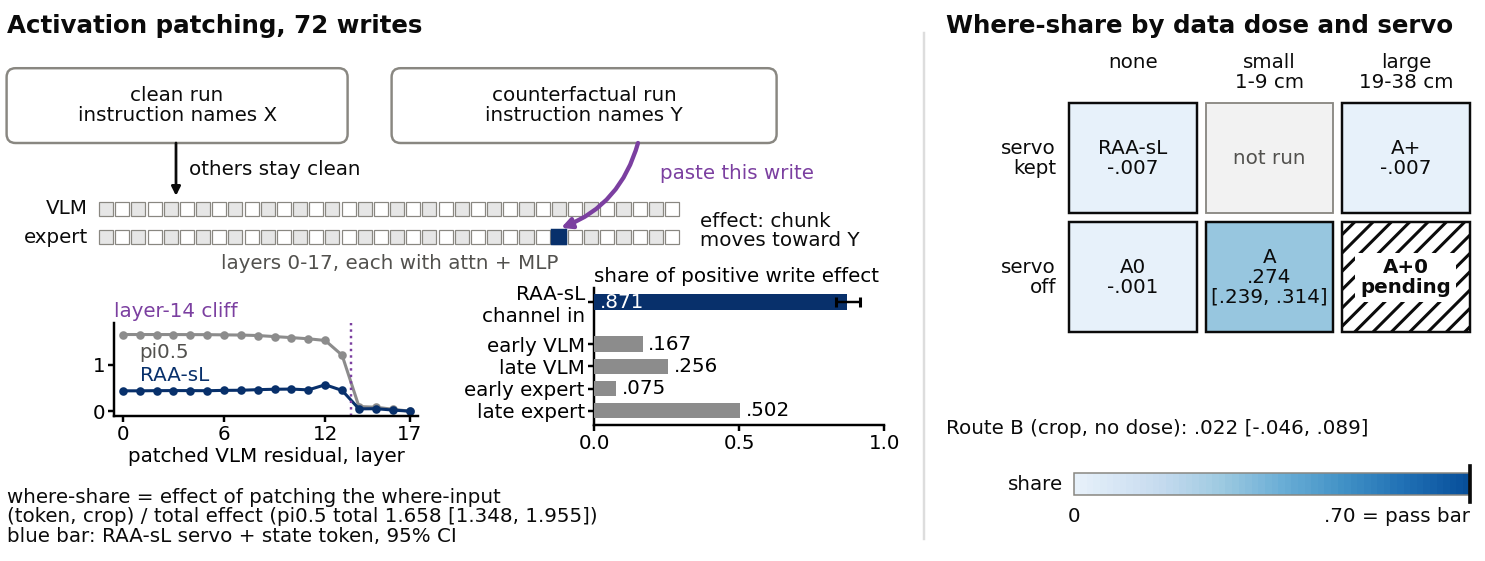
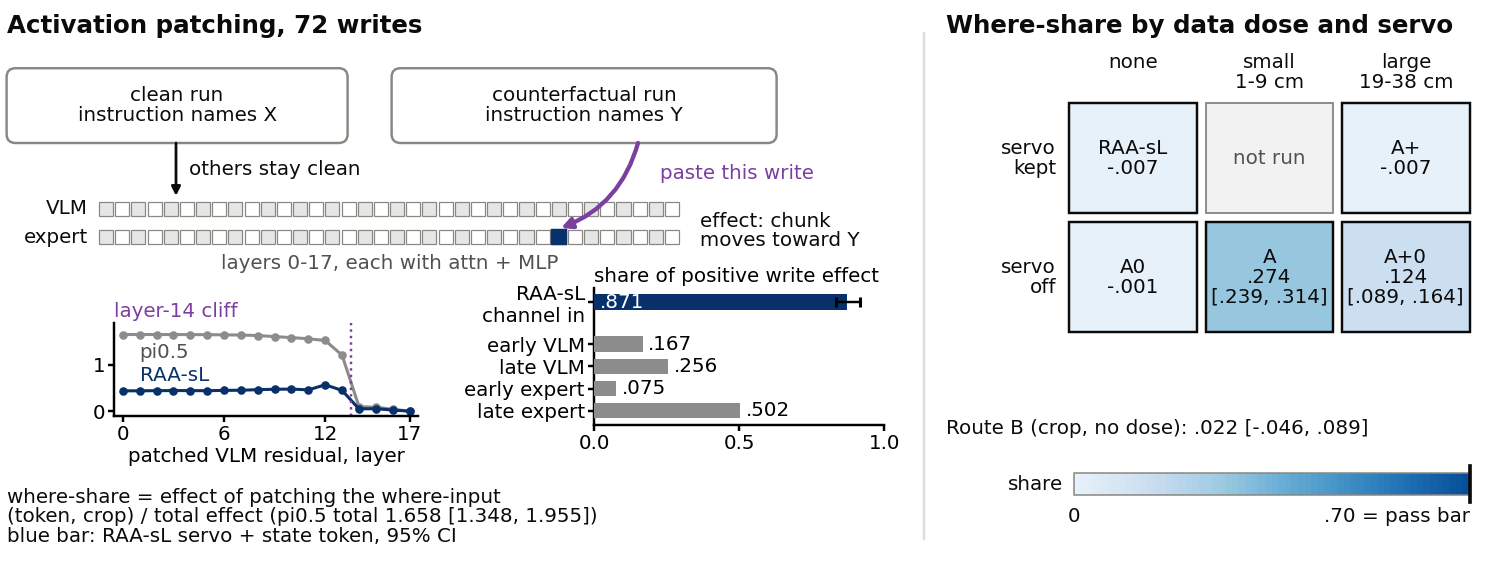
Paper: fold in A+0 result (no route passes), D2 wording, Wulff & Cangelosi, fig_probe A+0 data

Changed region(s): [[0.8983, 0.3939, 0.9912, 0.6061]]

diff --git a/experiments/fig_probe.py b/experiments/fig_probe.py
@@ -8,7 +8,8 @@ Data (all read from results/flawed, nothing invented):
   results/flawed/raaf/a2/raaf_probe_{A,A0,B,Aplus}.json          rule.where_share (route), ref_shares ALL.in.tok (RAA-sL)
   results/flawed/raaf/raaf_dev_read_v3.json                      phaseA.success["<arm>|N"], ["<arm>|K"]  (points; the file has no intervals)
 Hard-coded from DRAFT prose (comment citing the section):
-  the A+0 cell is pending (DRAFT 6.4 Table 6.4a), the kept-small cell was not run (DRAFT 6.4 grid), pass bar .70 / fail line .30 (DRAFT 6.4),
+  A+0 probe: results/flawed/raaf/a2/raaf_probe_Aplus0.json (route label "Aplus" is a carried-over string), A+0 dev N/K: raaf_dev_read_v4.json,
+  the kept-small cell was not run (DRAFT 6.4 grid), pass bar .70 / fail line .30 (DRAFT 6.4),
   the layer-14 cliff words (DRAFT 4.8), 72 writes = 2 x 18 layers x (attn, mlp) (DRAFT 4.8).
 Run: sbatch experiments/fig_b.sh fig_probe.py
 """
@@ -52,11 +53,16 @@ def load():
         j = jl("raaf", "a2", "raaf_probe_%s.json" % r)
         w = j["rule"]["where_share"]
         routes[r] = (w["point"], w["ci"][0], w["ci"][1])
+    # A+0 (post hoc, prereg tag raafp0): the file's "route" label says "Aplus" by a carried-over string; it IS A+0.
+    w = jl("raaf", "a2", "raaf_probe_Aplus0.json")["rule"]["where_share"]
+    routes["Aplus0"] = (w["point"], w["ci"][0], w["ci"][1])
     ref = jl("raaf", "a2", "raaf_probe_A.json")["ref_shares"]["ALL.in.tok"]
     routes["raasl"] = (ref["point"], ref["ci"][0], ref["ci"][1])
     D["routes"] = routes
     dev = jl("raaf", "raaf_dev_read_v3.json")["phaseA"]["success"]
     D["dev"] = {a: (dev[a + "|N"], dev[a + "|K"]) for a in ("raasl", "A", "B", "A0", "Aplus", "Actrl")}
+    dev4 = jl("raaf", "raaf_dev_read_v4.json")["phaseA"]["success"]
+    D["dev"]["Aplus0"] = (dev4["Aplus0|N"], dev4["Aplus0|K"])
     return D
 
 
@@ -132,7 +138,8 @@ def fig_probe(D):
     # per-band share of the positive effect (pi0.5) and the channel inputs of RAA-sL
     axb = fig.add_axes([2.70 / W, 0.62 / H, 1.32 / W, 0.62 / H])
     bs = band_shares(d)
-    ch = D["raasl"]["stats"]["ALL.share_chan"]
+    print("pi0.5 band shares:", ", ".join("%s %.3f" % (b[0], b[1]) for b in bs))
+    ch =D["raasl"]["stats"]["ALL.share_chan"]
     labs = [b[0] for b in bs][::-1]
     vals = [b[1] for b in bs][::-1]
     axb.barh(range(len(vals)), vals, color=S.GREY, height=0.7, zorder=3)
@@ -161,7 +168,7 @@ def fig_probe(D):
         txt(ax, cx0 + j * (cw + gap) + cw / 2, 2.22, a + ("\n" + b if b else "\n "))
     # (row, col) -> (label, share tuple or state)
     cells = {(0, 0): ("RAA-sL", R["raasl"]), (0, 1): ("not run", "notrun"), (0, 2): ("A+", R["Aplus"]),
-             (1, 0): ("A0", R["A0"]), (1, 1): ("A", R["A"]), (1, 2): ("A+0", "pending")}
+             (1, 0): ("A0", R["A0"]), (1, 1): ("A", R["A"]), (1, 2): ("A+0", R["Aplus0"])}
     ramp = cm.Blues
     for (r, c), (lab, val) in cells.items():
         x = cx0 + c * (cw + gap)
@@ -281,7 +288,7 @@ def fig_a13(D):
 def fig_a15(D):
     fig, axes = plt.subplots(1, 2, figsize=(S.W1, 2.45), sharey=True, gridspec_kw={"width_ratios": [1.15, 1.0], "wspace": 0.12})
     rows = [("RAA-sL", "raasl", "raasl"), ("A0", "A0", "A0"), ("B", "B", "B"), ("A", "A", "A"), ("A+", "Aplus", "Aplus"),
-            ("A+ctrl", "none", "Actrl"), ("A+0", None, None)]
+            ("A+ctrl", "none", "Actrl"), ("A+0", "Aplus0", "Aplus0")]
     y = {r[0]: len(rows) - 1 - i for i, r in enumerate(rows)}
     ax = axes[0]
     R = D["routes"]

diff --git a/paper/DRAFT.md b/paper/DRAFT.md
@@ -7,11 +7,11 @@
 
 Bibliography: paper/refs.bib
 
-Draft of 2026-11-21 (updated through SR 91, SR 89 scene 2 and the RAA-F selection; A+ failed, A+0 pending). Plan: docs/PLAN_PAPER.md. Numbers come from docs/SCAFFOLD_RESULTS.md (SR), docs/ARCH_FAILURES.md (AF) and docs/ARCHITECTURE_PROPOSAL.md; each claim names its sections. The previous draft (a different project) is at docs/history/DRAFT_2026-10-21_units.md. Prose follows docs/PAPER_STYLE.md of the diffusion-composition paper: active voice, one idea per paragraph, no hedged contrasts.
+Draft of 2026-11-21 (updated through SR 91, SR 89 scene 2 and the RAA-F selection; A+ and A+0 failed, no route selected). Plan: docs/PLAN_PAPER.md. Numbers come from docs/SCAFFOLD_RESULTS.md (SR), docs/ARCH_FAILURES.md (AF) and docs/ARCHITECTURE_PROPOSAL.md; each claim names its sections. The previous draft (a different project) is at docs/history/DRAFT_2026-10-21_units.md. Prose follows docs/PAPER_STYLE.md of the diffusion-composition paper: active voice, one idea per paragraph, no hedged contrasts.
 
 ## Abstract
 
-Vision-language-action models (VLAs) succeed on trained tasks and fail when a new instruction pairs a known object with a known target. We trace the failure to one routing defect. The action expert picks its sub-goal from visual cues that covaried with the role in training, and the instruction's roles do not pick it. We make three contributions. First, we build a failure atlas of architecture-rooted failures across five models: pi0.5, GR00T, pi0, X-VLA and SmolVLA. A failure is architecture-rooted when the input holds the needed information and a reference planner succeeds, when the failure persists across models, and when a structural change that adds no information removes it. A moved-plate test shows that frozen pi0.5 follows a moved plate and that a narrow retrain acquires the position bias. Second, we build a steerability predictor of new-pairing failure from trained tasks alone. Its first form failed its pre-registered test. A corrected form, frozen in advance, ranked 12 policy-pairing cells at AUC .944 on two policies trained afterwards. Third, we locate the failures in identifiable parts of the architecture. The failures share one cause: the flow expert shares the authority over where the object goes and when it is let go. We give an explicit module sole ownership of that decision and leave how to move (lift, approach, final alignment and gripper) to the expert. On fresh start states that no earlier experiment used, a registered module-removal test shows a dissociation, and the dissociation replicates on two further fresh sets. Removing the referent resolver restores only the relational-language failure, with success on relational instructions falling by .483 [.425, .538] on the earliest set and .408 [.350, .463] on the latest. Removing the pose memory restores only the hidden-target failure of the RAA models, which is a lost target location, with success falling by .217 [.033, .383] and .367 [.217, .517]. On frozen pi0.5 the covered plate costs placement precision at LIBERO's 3 cm tolerance, because the cover marks the plate's position (f6_diag). The cross terms are equivalent and every gate is testable on all three sets (the middle set runs a variant of the module). The repairs are secondary and leave a gap. Role views plus a role channel (RAA) reach .656 success on held-out pairings, an added servo term (RAA-s) reaches .717, and that recipe started from a broader initialisation (RAA-sL) reaches .878, against .389 for the same retrain with role views and no channel (.042 for a plain retrain). A test-time wrapper, ReGuide, reaches .897. The serving-time repair that gives the module the carry (W5) does not show non-inferiority to ReGuide in either registered test on fresh states: .892 against .914 (-.022 [-.114, +.047]) and, in the registered replication, .894 against .917 (-.022 [-.147, +.069]). It roughly matches ReGuide only in a pooled secondary analysis over three sets, two of which we saw before we registered the analysis (+.001 [-.053, +.049]). A further variant (W6) lost to W5. Training data that make the where-signal necessary move the learned network only partly at the doses tested: the learned where-share is .274 [.239, .314] for the in-support relabel and near zero without it, and a large planner dose with the servo kept leaves it at zero (A+, -.007 [-.013, -.000]; one further route, A+0, is pending). All results come from LIBERO, two scenes and pick-place tasks.
+Vision-language-action models (VLAs) succeed on trained tasks and fail when a new instruction pairs a known object with a known target. We trace the failure to one routing defect. The action expert picks its sub-goal from visual cues that covaried with the role in training, and the instruction's roles do not pick it. We make three contributions. First, we build a failure atlas of architecture-rooted failures across five models: pi0.5, GR00T, pi0, X-VLA and SmolVLA. A failure is architecture-rooted when the input holds the needed information and a reference planner succeeds, when the failure persists across models, and when a structural change that adds no information removes it. A moved-plate test shows that frozen pi0.5 follows a moved plate and that a narrow retrain acquires the position bias. Second, we build a steerability predictor of new-pairing failure from trained tasks alone. Its first form failed its pre-registered test. A corrected form, frozen in advance, ranked 12 policy-pairing cells at AUC .944 on two policies trained afterwards. Third, we locate the failures in identifiable parts of the architecture. The failures share one cause: the flow expert shares the authority over where the object goes and when it is let go. We give an explicit module sole ownership of that decision and leave how to move (lift, approach, final alignment and gripper) to the expert. On fresh start states that no earlier experiment used, a registered module-removal test shows a dissociation, and the dissociation replicates on two further fresh sets. Removing the referent resolver restores only the relational-language failure, with success on relational instructions falling by .483 [.425, .538] on the earliest set and .408 [.350, .463] on the latest. Removing the pose memory restores only the hidden-target failure of the RAA models, which is mostly a lost target location, with success falling by .217 [.033, .383] and .367 [.217, .517]. On frozen pi0.5 the covered plate costs placement precision at LIBERO's 3 cm tolerance, because the cover marks the plate's position (f6_diag). The cross terms are equivalent and every gate is testable on all three sets (the middle set runs a variant of the module). The repairs are secondary and leave a gap. Role views plus a role channel (RAA) reach .656 success on held-out pairings, an added servo term (RAA-s) reaches .717, and that recipe started from a broader initialisation (RAA-sL) reaches .878, against .389 for the same retrain with role views and no channel (.042 for a plain retrain). A test-time wrapper, ReGuide, reaches .897. The serving-time repair that gives the module the carry (W5) does not show non-inferiority to ReGuide in either registered test on fresh states: .892 against .914 (-.022 [-.114, +.047]) and, in the registered replication, .894 against .917 (-.022 [-.147, +.069]). It roughly matches ReGuide only in a pooled secondary analysis over three sets, two of which we saw before we registered the analysis (+.001 [-.053, +.049]). A further variant (W6) lost to W5. Training data that make the where-signal necessary move the learned network only partly at the doses tested: the learned where-share is .274 [.239, .314] for the in-support relabel and near zero without it, and a large planner dose with the servo kept leaves it at zero (A+, -.007 [-.013, -.000]). The same dose without the servo (A+0, a post hoc route) reaches .124 [.089, .164], below the small relabel. No route passes. All results come from LIBERO, two scenes and pick-place tasks.
 
 ## 1 Introduction
 
@@ -35,7 +35,7 @@ If cues route the sub-goal, a policy that addresses its actions by role should r
 **Contributions.**
 1. A failure atlas of five failures on five frozen VLAs (pi0.5, GR00T, pi0, X-VLA, SmolVLA) in two LIBERO scenes: the place follows a cue, the held outline picks the carry, the habitual object is grasped, relational language is ignored, and a covered target costs placement precision in pi0.5 and the target's location in GR00T (f6_diag). Each failure carries its C1, C2 and C3 evidence. We also report the fixes that work, the cases where they fail, and a moved-plate test in which frozen pi0.5 tracks the plate and a narrow retrain releases at the trained spot.
 2. A steerability predictor of new-pairing failure that uses trained tasks only. Its first form failed its pre-registered test. A corrected form, frozen in code before we probed two new policies, ranks their 12 cells at AUC .944.
-3. A localisation of the failures in the architecture. An explicit module owns where the object goes and when it is let go, and the expert keeps how to move. On fresh start states, a registered module-removal test shows a dissociation: removing the referent resolver restores only the relational-language failure (F7, +.483 [+.425, +.538]), and removing the pose memory restores only the hidden-target failure of the RAA models (F6, +.217 [+.033, +.383]), a lost target location (f6_diag). The cross terms are equivalent and all gates are testable. The dissociation replicates on two further fresh sets (F7 +.504 and +.408, F6 +.400 and +.367). The repairs are secondary: role views plus a role channel (RAA) reach .656 on held-out pairings against .389 for role views alone and .042 for a plain retrain, an added servo term (RAA-s) reaches .717, and the servo recipe from a broader initialisation (RAA-sL) reaches .878. A test-time wrapper, ReGuide, reaches .897. On the fresh states the module-owned variant (W5) reaches .892 against ReGuide's .914 and, in a registered replication on a fourth set, .894 against .917. Both tests leave non-inferiority not shown. A pooled secondary analysis over three sets puts the difference at +.001 [-.053, +.049], and we saw two of those sets before we registered it. The repairs narrow the gap and leave it open.
+3. A localisation of the failures in the architecture. An explicit module owns where the object goes and when it is let go, and the expert keeps how to move. On fresh start states, a registered module-removal test shows a dissociation: removing the referent resolver restores only the relational-language failure (F7, +.483 [+.425, +.538]), and removing the pose memory restores only the hidden-target failure of the RAA models (F6, +.217 [+.033, +.383]), mostly a lost target location (f6_diag). The cross terms are equivalent and all gates are testable. The dissociation replicates on two further fresh sets (F7 +.504 and +.408, F6 +.400 and +.367). The repairs are secondary: role views plus a role channel (RAA) reach .656 on held-out pairings against .389 for role views alone and .042 for a plain retrain, an added servo term (RAA-s) reaches .717, and the servo recipe from a broader initialisation (RAA-sL) reaches .878. A test-time wrapper, ReGuide, reaches .897. On the fresh states the module-owned variant (W5) reaches .892 against ReGuide's .914 and, in a registered replication on a fourth set, .894 against .917. Both tests leave non-inferiority not shown. A pooled secondary analysis over three sets puts the difference at +.001 [-.053, +.049], and we saw two of those sets before we registered it. The repairs narrow the gap and leave it open.
 
 **Scope.** All results come from LIBERO, two scenes (one kitchen scene with 11 tasks, one living-room scene with one trained task) and pick-place tasks. Each trained policy has one seed. The role channel is tested on one backbone (pi0.5), fully in one scene and, with a privileged channel, for the resolver removal in the second. The predictor is confirmed on two policies that descend from one base. GR00T misses the testability floor in scene 2, and X-VLA has no transport-level fix. The reference planners use simulator state or privileged depth and calibration, as do the perceived-pose runs of ReGuide. We make no claim about real robots or about tasks beyond pick-place.
 
@@ -47,7 +47,7 @@ If cues route the sub-goal, a policy that addresses its actions by role should r
 
 **Object-centric and role-addressed architectures.** TAX-Pose (2211.09325) and SPOT (2411.00965) place actions in an object-relative frame, and FOCI (2609.08743) extends the idea to relative motion between task-relevant objects. OA-WAM (2605.06481) gives an action expert object slots with address and content vectors, and POT-VLA (2607.18016) feeds role-indexed 3D object records to an action expert. RAA combines an input restriction with one role-addressed geometry channel, and each part has a precedent here. We claim the decomposition that the failure account derives, and its test against a plain retrain at matched data. We read FOCI, OA-WAM and POT-VLA in full text and w2VLA by abstract. OA-WAM already biases attention by the relative pose between each object slot and the robot slot, the closest precedent for our channel.
 
-**Language sensitivity and mechanisms.** STAGE (2609.13458), through its benchmark SAT-Bench, and LIBERO-PRO measure how much actions change when the instruction changes. Encoded but Not in Control (2610.06235) reports that the instruction's target is linearly decodable and goes unused. Grant et al. (2603.19233) inject activations at action-expert layers and redirect pi0.5 in 99.6% of 1,968 episodes, which gives the strongest mechanistic evidence for goal selection in the action expert. Our evidence for the routing rule comes from behavioural tests, and Grant et al. supply the probe of the attention path. Wang et al. (2607.29687) state a coverage law for partner count in a small custom policy, and we did not reproduce it on frozen pi0.5 and GR00T.
+**Language sensitivity and mechanisms.** STAGE (2609.13458), through its benchmark SAT-Bench, and LIBERO-PRO measure how much actions change when the instruction changes. Encoded but Not in Control (2610.06235) reports that the instruction's target is linearly decodable and goes unused. Grant et al. (2603.19233) inject activations at action-expert layers and redirect pi0.5 in 99.6% of 1,968 episodes (TODO(verify): an ICLR 2026 version may report different numbers; docs/notes/novelty_review_adv.md), which gives the strongest mechanistic evidence for goal selection in the action expert. Wulff and Cangelosi (2610.10178), "Do Vision-Language-Action Models Understand Instructions? A Mechanistic Interpretability Study on Language Grounding", apply activation and attribution patching to the action-generation modules of pi0.5 and GR00T N1.7. They find the sensitivity in early periodic cross-attention layers for GR00T and spread across early and some later layers for pi0.5, which makes theirs the closest mechanistic prior on the same models. Our evidence for the routing rule comes from behavioural tests, and Grant et al. supply the probe of the attention path. Wang et al. (2607.29687) state a coverage law for partner count in a small custom policy, and we did not reproduce it on frozen pi0.5 and GR00T.
 
 **Performance prediction.** Okawa et al. (2310.09336) show that composed-task performance rises multiplicatively with the performance on its constituents in diffusion models, and our predictor takes that product form. Agreement-on-the-Line (2404.01542) predicts out-of-distribution accuracy of classifiers from model agreement. World-model evaluators, such as the Veo simulator for Gemini Robotics policies (2512.10675), rank policies with closed-loop rollouts inside a learned simulator. Our probe needs only trained-task rollouts, and we compare cost and make no accuracy comparison.
 
@@ -237,7 +237,7 @@ In scene 2, N1 stays at .417-.500 under ReGuide's perceived poses, and it reache
 
 ## 6 The failures sit in identifiable parts of the architecture
 
-The atlas says that a VLA chooses its sub-goals by cues. If that account holds, each failure should sit in one identifiable part of the architecture, and removing that part should restore exactly that failure. Every fix that works, as the previous section reports, binds a role to an entity and moves the arm relative to that entity. This section builds that binding into a policy and tests the claim with module removals. The headline result is a gated dissociation on fresh start states: removing the referent resolver restores only the relational-language failure (F7), and removing the pose memory restores only the hidden-target failure of the RAA models (F6), which is a lost target location (f6_diag). It replicates on two further fresh sets. Getting there took a development history. The pose-memory test reads NOT SHOWN on a narrow initialisation, reverses on RAA-sL, and supports the memory once a module owns the target-directed motion, but on a policy whose controls then fail their gate. The last subsection traces that history to the shared authority over where the arm goes and shows how an explicit module can own it. The repair numbers are secondary, and we report them as an honest gap to ReGuide: the best architectural variant on the development states, RAA-sL, reaches .878 on held-out pairings against .897, and the module-owned variant reaches .892 against .914 on the SR 87 set and .894 against .917 on the fourth set. Neither registered test shows non-inferiority, and only a pooled secondary analysis, which includes two sets we saw before registering it, puts the two at the same level.
+The atlas says that a VLA chooses its sub-goals by cues. If that account holds, each failure should sit in one identifiable part of the architecture, and removing that part should restore exactly that failure. Every fix that works, as the previous section reports, binds a role to an entity and moves the arm relative to that entity. This section builds that binding into a policy and tests the claim with module removals. The headline result is a gated dissociation on fresh start states: removing the referent resolver restores only the relational-language failure (F7), and removing the pose memory restores only the hidden-target failure of the RAA models (F6), which is mostly a lost target location (f6_diag). It replicates on two further fresh sets. Getting there took a development history. The pose-memory test reads NOT SHOWN on a narrow initialisation, reverses on RAA-sL, and supports the memory once a module owns the target-directed motion, but on a policy whose controls then fail their gate. The last subsection traces that history to the shared authority over where the arm goes and shows how an explicit module can own it. The repair numbers are secondary, and we report them as an honest gap to ReGuide: the best architectural variant on the development states, RAA-sL, reaches .878 on held-out pairings against .897, and the module-owned variant reaches .892 against .914 on the SR 87 set and .894 against .917 on the fourth set. Neither registered test shows non-inferiority, and only a pooled secondary analysis, which includes two sets we saw before registering it, puts the two at the same level.
 
 ### 6.1 The role channel
 
@@ -385,9 +385,9 @@ Section 4.8 finds that target binding is written across many layers of frozen pi
 
 We hypothesise a behaviour-cloning shortcut: in the trained tasks the role phrase, the painted views and the held object already determine the target, so nothing in the training loss rewards reading the state token. A learned network then uses a where-signal only as far as the training data force it to. RAA-F tests this with data changes and no change to the serving-time module (plan docs/notes/raaf_plan.md; selection docs/notes/raaf_sel.md). Three routes change the data, and one selection rule, fixed before any run, scores each route. The rule reads a learned where-share: the fraction of the counterfactual effect that the probe recovers by patching only the learned where-input (the state token, or token plus crop for Route B) from the counterfactual run into the original. A route passes when the lower bound of the pooled share on the development states is at least .70, the prefix share is below RAA-sL's (.089), and the effect itself is positive. A route fails the probe when the upper bound is below .30. RAA-sL's token share is -.007.
 
-**Four routes, a matched comparator and a data-only control.** Route A relabels held-phase demonstration frames with a counterfactual goal offset that stays in the support of the demonstrations (1-9 cm shifts), on a model without the servo, so the labels carry the shift and only the token can supply it. Route B adds a crop of the target as an extra image input and leaves the labels unchanged, so it has no data dose. Route A0 is the servo-free model on the base data with no relabel. We trained A0 as the matched comparator after we found that B was built servo-free as well, so that A minus A0 isolates the relabel and B minus A0 isolates the crop. Route A+ adds planner demonstrations that place the object at table spots with shifts of 19-38 cm, which the prompt and the views do not determine, and keeps the servo. A+ctrl trains on the same planner data with no token and no servo, so it is a data-only control and not a route. Route A+0 is A+ with the servo removed. We added A+0 after we had seen A+'s probe and development read, so it is a post hoc addition (prereg tag raafp0), and its only confirmatory test is the sealed 5th fresh set.
+**Four routes, a matched comparator and a data-only control.** Route A relabels held-phase demonstration frames with a counterfactual goal offset that stays in the support of the demonstrations (1-9 cm shifts), on a model without the servo, so the labels carry the shift and only the token can supply it. Route B adds a crop of the target as an extra image input and leaves the labels unchanged, so it has no data dose. Route A0 is the servo-free model on the base data with no relabel. We trained A0 as the matched comparator after we found that B was built servo-free as well, so that A minus A0 isolates the relabel and B minus A0 isolates the crop. Route A+ adds planner demonstrations that place the object at table spots with shifts of 19-38 cm, which the prompt and the views do not determine, and keeps the servo. A+ctrl trains on the same planner data with no token and no servo, so it is a data-only control and not a route. Route A+0 is A+ with the servo removed. We added A+0 after we had seen A+'s probe and development read, so it is a post hoc addition (prereg tag raafp0), and it would have had its only confirmatory test on the sealed 5th fresh set, which stays sealed because it failed.
 
-**The learned where-share rises only with a relabel, and only to .274.** The routes and the reference RAA-sL form a grid of data dose by servo, with one cell still empty.
+**The learned where-share rises only with a relabel, and only to .274.** The routes and the reference RAA-sL form a grid of data dose by servo. The large dose without the servo (A+0) reaches only .124.
 
 | dose | servo | route | share |
 |---|---|---|---|
@@ -395,11 +395,11 @@ We hypothesise a behaviour-cloning shortcut: in the trained tasks the role phras
 | none | off | A0 | -.001 |
 | small (relabel, 1-9 cm) | off | A | .274 |
 | large (planner, 19-38 cm) | kept | A+ | -.007 |
-| large | off | A+0 | pending (post hoc; confirmatory test is the sealed 5th fresh set) |
+| large | off | A+0 | .124 (post hoc, prereg tag raafp0) |
 
 Table 6.4a gives the probe on the development states (96 observations per route, clustered bootstrap, B = 2000).
 
-**Table 6.4a.** Learned where-share of the probe (docs/notes/raaf_sel.md, results/flawed/raaf/a2/raaf_probe_{A,B,A0,Aplus}.json). The B row uses the token and crop patched together.
+**Table 6.4a.** Learned where-share of the probe (docs/notes/raaf_sel.md, results/flawed/raaf/a2/raaf_probe_{A,B,A0,Aplus,Aplus0}.json; the A+0 file carries the label "Aplus" by a carried-over string). The B row uses the token and crop patched together.
 
 | route | data change | pooled share [95% CI] | label |
 |---|---|---|---|
@@ -409,11 +409,13 @@ Table 6.4a gives the probe on the development states (96 observations per route,
 | A | in-support counterfactual relabel, 1-9 cm | .274 [.239, .314] | NOT PASSED (bar .70) |
 | A+ | planner demonstrations, 19-38 cm (servo kept) | -.007 [-.013, -.000] | FAILED |
 | A+ctrl | same planner data, no token, no servo | n/a (no where-input) | not a route |
-| A+0 | planner demonstrations, 19-38 cm (servo off) | pending (training) | pending (training) |
+| A+0 | planner demonstrations, 19-38 cm (servo off; post hoc) | .124 [.089, .164] | FAILED (upper bound below .30) |
 
 Route B and Route A0, which have no data dose, leave the share at zero, as the hypothesis predicts. A+, with a large dose and the servo kept, also leaves it at zero. Route A raises it from -.001 to .274, a contrast of +.272 [+.238, +.312] over A0 (the share is .426 [.352, .512] on the new-pairing set and .170 [.141, .203] on the trained-task set). The upper bound of .314 sits just above the failure line of .30, so A is not closed and is not passed. B minus A0 is +.030 [-.034, .089], so the crop adds nothing detectable. A+ minus A is -.282 [-.322, -.247] and A+ minus A0 is -.006 [-.012, +.001] (results/flawed/raaf/a2/contrast_Aplus_A.json, contrast_Aplus_A0.json).
 
-**The network reads the where-input only when no other path supplies the where-correction.** The grid carries the argument. Where the servo is off and the relabel is present, the token carries part of the shift (A, .274). Where the servo is kept, the token stays unread at both doses, and even planner shifts of 19-38 cm leave A+ at the RAA-sL value. This mechanism is the reading the data support. We did not test the pre-registered explanation for A+'s failure directly, and a second candidate is the new prompt phrase on the table-spot frames. A+0, which removes the servo and keeps the planner data, separates the two.
+The large dose without the servo yields .124 [.089, .164], below the small relabel's .274, so the large dose does not do better than the small one even when the servo is off. The servo zeroes the share at both dose levels: A+0 minus A+ is +.133 [.096, .171], A+0 minus A0 is +.127 [.092, .165], and A+0 minus A is -.150 [-.196, -.104] (contrast_Aplus0_{Aplus,A0,A}.json). A+0 fails the probe, because its upper bound of .164 lies below .30. As an exploratory, unregistered diagnostic, the state-projection layer moved about equally in A+ and A+0 (input-dimension change of 7.2% against 8.5% on dx) and stayed near its random initialisation in RAA-sL, A0 and B, so the servo, and not an untrained layer, accounts for A+'s null share (docs/notes/stateproj_diag.md).
+
+**The network reads the where-input only when no other path supplies the where-correction.** The grid carries the argument. Where the servo is off and the relabel is present, the token carries part of the shift (A, .274). Where the servo is kept, the token stays unread at both doses, and even planner shifts of 19-38 cm leave A+ at the RAA-sL value. This mechanism is the reading the data support. We did not test the pre-registered explanation for A+'s failure directly, and a second candidate is the new prompt phrase on the table-spot frames. A+0 removes the servo and keeps the planner data and the phrase. It reads .124, above the servo-kept A+ (-.007) and below the small relabel (.274), so the servo accounts for the zero share at the large dose and the phrase alone does not, but the large dose still does not reach the small relabel's share.
 
 **Behaviour on the development states.** These states were seen before selection, so the table reports observations and no registered test. Table 6.4b gives held-out success (N1-N6, with the K1-K6 trained tasks as the cost) and the two hidden-target and relational cells of the dissociation test.
 
@@ -427,17 +429,19 @@ Route B and Route A0, which have no data dose, leave the share at zero, as the h
 | A0 | .686 | .831 | .383 [.250, .517] | 1.000 | .700 |
 | A+ | .828 | .947 | .033 | .417 | .688 |
 | A+ctrl | .631 | .814 | .000 | .000 | .413 |
-| A+0 | pending (training) | pending (training) | pending (training) | pending (training) | pending (training) |
+| A+0 | .603 | .814 | .017 | .083 | .625 |
 
 No servo-free route recovers RAA-sL's release aim on the new pairings: A is -.100 [-.261, +.050] below it on N1-N6, B -.233 [-.447, -.019] and A0 -.192 [-.406, +.019]. A stays non-inferior to RAA-sL on K1-K6 at -.05 (+.058 [-.006, +.167]), and A+ is -.050 [-.192, +.061] below it (not supported) with K1-K6 at +.011 [-.028, +.067]. The relabel adds +.164 [+.006, +.403] on K1-K6 and +.194 [+.050, +.367] on the bottle pairings over A0. The rise in F6_b over RAA-sL (+.417 for A, +.367 for A0) is already present in A0, so it comes from removing the servo and not from the relabel (A minus A0 on F6_b is +.050 [-.100, +.217]). B adds +.217 [+.050, +.383] on F6_b over A0, and its probe shows no learned where-share, so the crop acts through the prefix and not through a learned where-share. A+ behaves like RAA-sL: its F6_b is near zero, and only the servo-free models rescue that cell.
 
 **The planner data alone do not supply the where-skill.** A+ctrl trains on the same planner data with no token and no servo, and it falls below RAA-sL on N1-N6 by -.247 [-.483, -.030]. This agrees with the explicit module carrying the where-skill. A+ctrl's Phase B used a new serving copy with a zero state and learned masks, whereas Phase A used exact masks, so the two phases do not share a perception pipeline.
 
-**F6_a is low only for the two models trained on the table-spot data.** This is an observation from one seed. A+ (.417) and A+ctrl (.000) are low, and every model on the base data scores at least .933 (Table 6.4b), so the table-spot data are the likely cause, and A+0 shares those data.
+**F6_a is low only for the three models trained on the table-spot data.** This is an observation from one seed. A+ (.417) and A+ctrl (.000) are low, and every model on the base data scores at least .933 (Table 6.4b), so the table-spot data are the likely cause, and A+0 shares those data and is lowest of the servo-free models (.083, against .933-1.000 for the base-data models).
 
 **The prefix half of the pass rule fails every servo-free route by construction.** RAA-sL's where-effect runs mostly through the servo, which sits outside the network, so its network-internal prefix share is small (.089). A route without the servo has no outside path, so its effect must run through network inputs and its prefix share cannot fall below RAA-sL's. The servo-matched reference A0 reads 1.002, and A reads .751 (lower than A0 by .250 [.218, .285]) while B reads 1.001. Both routes are therefore above .089, and the prefix criterion decided nothing here, because the where-share half failed first. We report the defect as observed and keep the labels as registered.
 
-**Consequence for the argument.** No route among A, B, A0 and A+ passes the probe, so the selection rule names no winner and we run no confirmatory read. The line is that the shortcut survives the data at these doses. A relabel with shifts of 1-9 cm moves the learned where-share from zero to .274 when the servo is off, and the data without a dose leave it at zero. The learned network therefore does not take up the where-signal unless the data demand it and no other path supplies the correction, and at the dose we tested it takes up about a quarter of it. This is the case for an explicit, non-distributed where-module: the signal the module carries does not arrive in the network through a loss that does not need it. The result is provisional until A+0 reports, because the large-dose, servo-off cell is the one the grid leaves empty (A+0 pending). One seed, one checkpoint per route and 60 states per cell limit every row, and the relabel cannot reach the 20-40 cm scale of a real mis-pairing, because the shifts must stay in the support of the demonstrations.
+**A+0 on the development states (post hoc, descriptive).** A+0 reaches .603 on N1-N6 and .814 on K1-K6. Against RAA-sL it is lower on N1-N6 by -.275 [-.447, -.119] (REVERSED) and on K1-K6 by -.122 [-.308, +.008] (NOT SHOWN), and F7 is .625 against .744 (-.119 [-.188, -.044], REVERSED). Against A+ it is lower on N1-N6 by -.225 [-.386, -.078] (REVERSED). Its F6_b is .017, the same as RAA-sL, so removing the servo does not rescue that cell here, unlike A and A0 (.433 and .383).
+
+**Consequence for the argument.** No route among A, B, A0, A+ and A+0 passes the probe (A .274 NOT PASSED; B, A0, A+ and A+0 FAILED), so no route is eligible, the selection rule names no winner, the 5th fresh set stays sealed and unbuilt, and we run no confirmatory read. The line is that the shortcut survives the data at these doses. A relabel with shifts of 1-9 cm moves the learned where-share from zero to .274 when the servo is off, and the data without a dose leave it at zero. The learned network therefore does not take up the where-signal unless the data demand it and no other path supplies the correction, and at the dose we tested it takes up about a quarter of it. This is the case for an explicit, non-distributed where-module: the signal the module carries does not arrive in the network through a loss that does not need it. The large dose without the servo (A+0, post hoc) takes up .124, below the small relabel's .274. One seed, one checkpoint per route and 60 states per cell limit every row, and the relabel cannot reach the 20-40 cm scale of a real mis-pairing, because the shifts must stay in the support of the demonstrations.
 
 
 ### 6.5 Prior art and limits
@@ -486,9 +490,9 @@ On all 90 scene-1 cells, ŝ passes the lower bound and beats both baselines (SR 
 - X-VLA has no fix.
 - The fixes still need depth and calibration.
 - The role channel and the module removals run in scene 1 on pi0.5 with one seed; scene 2 (SR 89) has a privileged where channel and tests only the resolver (D1' +.433 [+.358, +.517]), with the pose-memory test untestable. The place gap stays open (RAA-sL .878 against ReGuide .897 on the development states; RAA-sL-W5 .892 against .914 on the SR 87 set and .894 against .917 on the registered SR 91 replication, where non-inferiority is not shown in either; the pooled secondary analysis over SR 87, SR 90 and SR 91 gives +.001 [-.053, +.049], and we saw two of those sets before we registered it).
-- The localisation and the gated module-removal dissociation replicate on three fresh state sets: the resolver carries only F7 (+.483 [+.425, +.538], +.504, +.408 [+.350, +.463]) and the pose memory carries only F6_b in the RAA models (+.217 [+.033, +.383], +.400, +.367 [+.217, +.517]), a lost target location (f6_diag). The middle set runs the variant W6, which lost to W5 on the new pairings (.764 against .931). The designs came from SR 82 to 86 on shared states, with one seed, one scene family, a hand-set servo, no rerun of the R0 fit gate on the SR 87 states and no multiplicity correction.
+- The localisation and the gated module-removal dissociation replicate on three fresh state sets: the resolver carries only F7 (+.483 [+.425, +.538], +.504, +.408 [+.350, +.463]) and the pose memory carries only F6_b in the RAA models (+.217 [+.033, +.383], +.400, +.367 [+.217, +.517]), mostly a lost target location (f6_diag). The middle set runs the variant W6, which lost to W5 on the new pairings (.764 against .931). The designs came from SR 82 to 86 on shared states, with one seed, one scene family, a hand-set servo, no rerun of the R0 fit gate on the SR 87 states and no multiplicity correction.
 - LIBERO's 3 cm On() tolerance makes F6_b sensitive to small placement shifts, and the occluder marks the hidden plate's position, so the frozen pi0.5 result on F6_b measures placement precision and cannot isolate memory (f6_diag).
 - W5's weakest cell is N4 on all three sets (.717, .783, .533), a post hoc observation that we have not tested as a cause.
-- Learned fixes that make the where-signal necessary in the training data (RAA-F, docs/notes/raaf_sel.md) leave the learned where-share at .274 [.239, .314] for the in-support relabel (bar .70), .022 [-.046, .089] for the crop and -.001 for the servo-free comparator; the planner-demonstration route A+ with the servo kept reads -.007 [-.013, -.000] (FAILED), and its servo-free version A+0 is pending.
+- Learned fixes that make the where-signal necessary in the training data (RAA-F, docs/notes/raaf_sel.md) leave the learned where-share at .274 [.239, .314] for the in-support relabel (bar .70), .022 [-.046, .089] for the crop and -.001 for the servo-free comparator; the planner-demonstration route A+ with the servo kept reads -.007 [-.013, -.000] (FAILED), and its servo-free version A+0 (post hoc, prereg tag raafp0) reads .124 [.089, .164] (FAILED). No route passes, so there is no confirmatory read and the 5th fresh set stays sealed.
 - The moved-plate test covers one scene, two tasks and one checkpoint per retrain.
 - The failure predictor is confirmed on two policies that descend from one base.

diff --git a/paper/figs/captions.md b/paper/figs/captions.md
@@ -16,7 +16,7 @@ Frame rule (paper/figs/frames/selection.json, fixed before any frame was looked 
 
 **Figure 5 (fig_removal2). Removing one module returns one failure.** Success with the module (solid) and without it (hatched), on the development states (RAA-L, SR 80; RAA-sL, SR 82) and on two fresh sets (RAA-sL-W5, SR 87 and SR 91). Left, D1: the pooled relational (F7) cells with and without the referent resolver R; the gain from R is +.263 [+.213, +.313] (RAA-L), +.319 [+.269, +.375] (RAA-sL), +.483 [+.425, +.538] (W5, SR 87) and +.41 (W5, SR 91; Table 2c), all SUPPORTED. Right, D2: the covered-plate cell (F6, condition b) with and without the pose memory M; the gain from M is +.117 [-.017, +.250] on RAA-L (NOT SUPPORTED), -.367 [-.500, -.250] on RAA-sL (REVERSED; the full policy scores .017 [.000, .050] and the policy without M .383 [.267, .517]), +.217 [+.033, +.383] on W5 (SR 87) and +.37 on W5 (SR 91; Table 2c). Error bars are the registered 95% intervals, and the grey dashed line gives frozen pi0.5 on the same states (.350 on the F7 pool and .517 on F6 for the development states). The gated primary on SR 87 reads DISSOCIATION SHOWN. The W5 where-module reads that did not confirm non-inferiority to ReGuide (SR 91) are in A14. TODO(check): the SR 91 effect sizes (+.41, +.37) are as printed by experiments/fig_removal2.py; confirm against results/flawed before submission.
 
-**Figure 6 (fig_probe). Activation patching and the where-share by data dose and servo.** Left: the probe. A write (attention or MLP, one of 72 across the 18 VLM and 18 action-expert layers) from a counterfactual run whose instruction names target Y is pasted into the clean run that names X, with all other writes left clean; the effect is the displacement of the output chunk toward Y. Below it: the residual-stream profile (effect 1.66 to 1.53 at layers 0-12 for pi0.5, 1.21 at layer 13, .10 at layer 14; RAA-sL .45 to .05), and the share of the positive write effect by band (early VLM, late VLM, early expert, late expert), with the channel inputs of RAA-sL (servo input plus state token) at .871 [.834, .914]. The where-share is the effect of patching the where-input (token, crop) over the total effect (pi0.5 total 1.658 [1.348, 1.955]). TODO(check): band shares as printed by experiments/fig_probe.py; confirm against results/flawed/a2/a2_read_pi05.json. Right: the 2 by 3 grid of data dose (none; small relabel, 1-9 cm; large planner data, 19-38 cm) by servo (kept, off), each cell labelled by route and learned where-share (development states, 96 observations per route, clustered bootstrap, B = 2000): kept and none RAA-sL -.007 [-.008, -.006]; kept and small not run; kept and large A+ -.007 [-.013, -.000]; off and none A0 -.001 [-.001, .000]; off and small A .274 [.239, .314]; off and large A+0 pending (hatched). TODO(A+0): fill the A+0 cell when its probe lands (post hoc route, prereg tag raafp0; its only confirmatory test is the sealed fifth fresh set); re-run only experiments/fig_probe.py. Route B (target crop, no dose) is .022 [-.046, .089] and sits below the grid. The pass bar is .70. A+ctrl has no where-input and is not drawn.
+**Figure 6 (fig_probe). Activation patching and the where-share by data dose and servo.** Left: the probe. A write (attention or MLP, one of 72 across the 18 VLM and 18 action-expert layers) from a counterfactual run whose instruction names target Y is pasted into the clean run that names X, with all other writes left clean; the effect is the displacement of the output chunk toward Y. Below it: the residual-stream profile (effect 1.66 to 1.53 at layers 0-12 for pi0.5, 1.21 at layer 13, .10 at layer 14; RAA-sL .45 to .05), and the share of the positive write effect by band for pi0.5 (early VLM .167, late VLM .256, early expert .075, late expert .502, layers 0-8 and 9-17 of each stack), with the channel inputs of RAA-sL (servo input plus state token) at .871 [.834, .914]. The where-share is the effect of patching the where-input (token, crop) over the total effect (pi0.5 total 1.658 [1.348, 1.955]). Right: the 2 by 3 grid of data dose (none; small relabel, 1-9 cm; large planner data, 19-38 cm) by servo (kept, off), each cell labelled by route and learned where-share (development states, 96 observations per route, clustered bootstrap, B = 2000): kept and none RAA-sL -.007 [-.008, -.006]; kept and small not run; kept and large A+ -.007 [-.013, -.000]; off and none A0 -.001 [-.001, .000]; off and small A .274 [.239, .314]; off and large A+0 .124 [.089, .164] (post hoc route, prereg tag raafp0; FAILED, so the sealed fifth fresh set stays unbuilt). Route B (target crop, no dose) is .022 [-.046, .089] and sits below the grid. The pass bar is .70. A+ctrl has no where-input and is not drawn.
 
 ## Appendix
 
@@ -48,6 +48,6 @@ Frame rule (paper/figs/frames/selection.json, fixed before any frame was looked 
 
 **Figure A14 (figA14). Where-module trace.** End-effector paths with and without the servo (RAA-sL against RAA-sL-W5) and release-error histograms, frames from entries A14 N1 and A14 N4 (N4 needed the extra 10 trials, since no trial qualified among the first 10, selection.json). Registered: W5 .892 against .875 for RAA-sL on N1-N6 (SR 87) and .894 against .878 (SR 91); K5 .950 against .650 (SR 87) and .767 (SR 91) for RAA-sL; W5 is not shown non-inferior to ReGuide with perceived poses (-.022 [-.114, +.047] on SR 87, -.022 [-.147, +.069] on SR 91). The where-module is the localisation of the failures, and the repair gap to ReGuide stays open. Frames are development-state episodes chosen by the fixed frame rule above.
 
-**Figure A15 (figA15). The routes as dots.** Table 6.4a and 6.4b as a dot plot: learned where-share and N1-N6 success. Where-share: RAA-sL -.007, A0 -.001, B .022, A .274 [.239, .314], A+ -.007, A+0 pending. N1-N6 success: RAA-sL .878, A .778, B .644, A0 .686, A+ .828, A+ctrl .631, A+0 pending. TODO(A+0): add the A+0 point when its probe and development read land (results/flawed/raaf). Development states; one seed.
+**Figure A15 (figA15). The routes as dots.** Table 6.4a and 6.4b as a dot plot: learned where-share and N1-N6 success. Where-share: RAA-sL -.007, A0 -.001, B .022, A .274 [.239, .314], A+ -.007, A+0 .124 [.089, .164]. N1-N6 success: RAA-sL .878, A .778, B .644, A0 .686, A+ .828, A+ctrl .631, A+0 .603 (K1-K6 .814). A+0 is a post hoc route (prereg tag raafp0). Development states; one seed.
 
 **Figure A16 (figA16). Frame gallery, extra episodes.** Three further episodes per failure, the next three qualifying trials under the same fixed rule as Fig 2 (selection.json, "further"), shown as a thinner grid to guard against a cherry-picked look. Registered rates are those of Fig 2. All are development-state episodes chosen by outcome, not by appearance.
